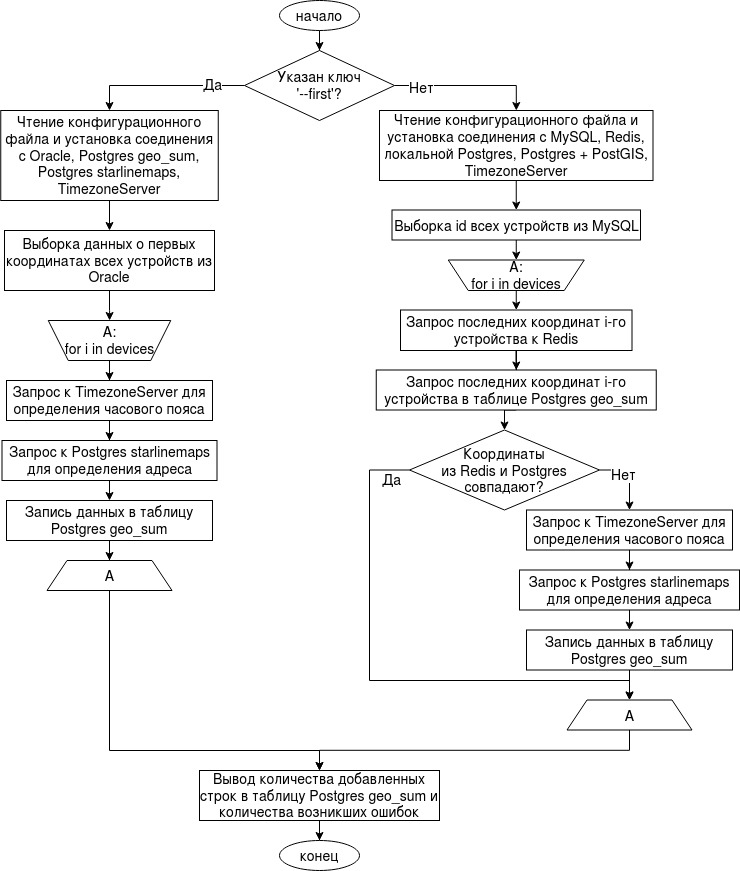
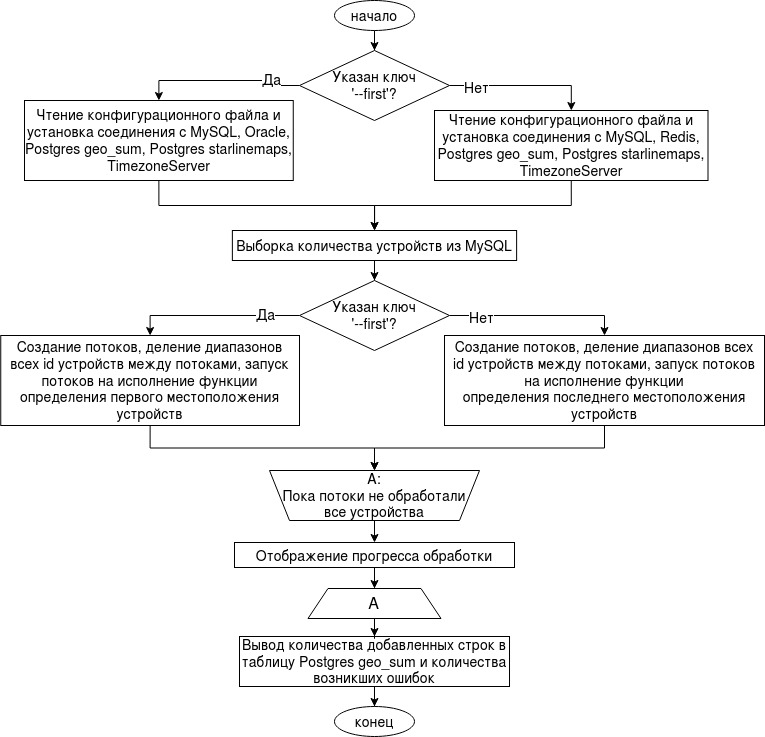
Update README

diff --git a/main.py b/main.py
@@ -179,13 +179,14 @@ if __name__ == '__main__':
     logger = logging.getLogger("geo_sum_main")
     logger.setLevel('INFO')
 
-    print("Start")
-    print_progress(0, 100)
 
     if namespace.first:
+        print("Insert first devices' locations.")
         logger.info("Insert first devices' locations.")
     else:
+        print("Insert last devices' locations.")
         logger.info("Insert last devices' locations.")
+    print_progress(0, 100)
 
     rows_number = 0
     threads_number = 15
@@ -252,6 +253,6 @@ if __name__ == '__main__':
                       "{} errors occurred.".format(ans[1], ans[2], ans[0])
         logger.info(ans_str)
         print(ans_str)
-    time_str = "Runtime of the program is {}.".format(time.time() - start_time)
+    time_str = "Runtime of the program is {:.3f} hours.".format((time.time() - start_time) / 3600)
     logger.info(time_str)
     print(time_str)

diff --git a/README.md b/README.md
@@ -16,18 +16,51 @@
 
 Результаты работы скрипта сохраняются в таблицу geo_summary базы данных PostgreSQL. Структура таблицы geo_summary приведена в файле "Geo_summary_table".
 
-## Алгоритм работы скрипта
-![](https://github.com/DaryaPanarina/geo_summary/raw/master/Algorithm.jpg)
-
 ## Запуск скрипта
 
 `python3 main.py [-c path] [-f] [-h]`
 
-`-c path`		Путь к конфигурационному файлу. Шаблон конфигурационного файла представлен в файле "config_example.yaml".
+`-c path`	Путь к конфигурационному файлу. Шаблон конфигурационного файла представлен в файле "config_example.yaml".
 
 `-f, --first`	Если ключ указан, то для каждого устройства скрипт определит адрес его первого местоположения, если не указан - то будет определяться адрес последнего местоположения для каждого устройства.
 
 `-h, --help`	Справка.
+
+## Сообщения в командной строке
+
+При запуске скрипта:
+- `Insert first devices' locations.` - если скрипт был запущен с ключом -f.
+- `Insert last devices' locations.` - если скрипт был запущен без ключа -f.
+
+Во время работы скрипта:
+
+- `Progress: {X}% complete`
+
+При завершении скрипта:
+- `Inserted {X} rows. {Y} errors occurred.` - если скрипт был запущен с ключом -f.
+- `Inserted {X} rows. {Y} devices haven't changed their location. {Z} errors occurred.` - если скрипт был запущен без ключа -f.
+- `Runtime of the program is {X} hours.`
+
+В случае возникновения ошибки, из-за которой дальнейшая работа скрипта невозможна:
+- `Failed to read configuration file. The error occurred: {X}`
+- `Failed to connect to database. Details are in geo_summary_error.log.`
+- `Failed to select data from database. Details are in geo_summary_error.log.`
+
+## Журнал ошибок
+
+Если во время работы скрипта возникает ошибка, информация о ней записывается в файл `geo_summary_error.log`. Записи в файле могут быть 2 типов:
+
+- `[INFO]	message`, где `message` - сообщение о начале работы скрипта или его корректном завершении, аналогичные сообщениям в командной строке.
+- `[ERROR]	message`, где `message` - информация о возникшей ошибке.
+
+## Алгоритм работы скрипта
+![](https://github.com/DaryaPanarina/geo_summary/raw/master/Algorithm.jpg)
+
+Алгоритм функции определения первого местоположения устройств:
+![](https://github.com/DaryaPanarina/geo_summary/raw/master/First_loc_check_algorithm.jpg)
+
+Алгоритм функции определения последнего местоположения устройств:
+![](https://github.com/DaryaPanarina/geo_summary/raw/master/Last_loc_check_algorithm.jpg)
 
 ## Содержимое репозитория
 
